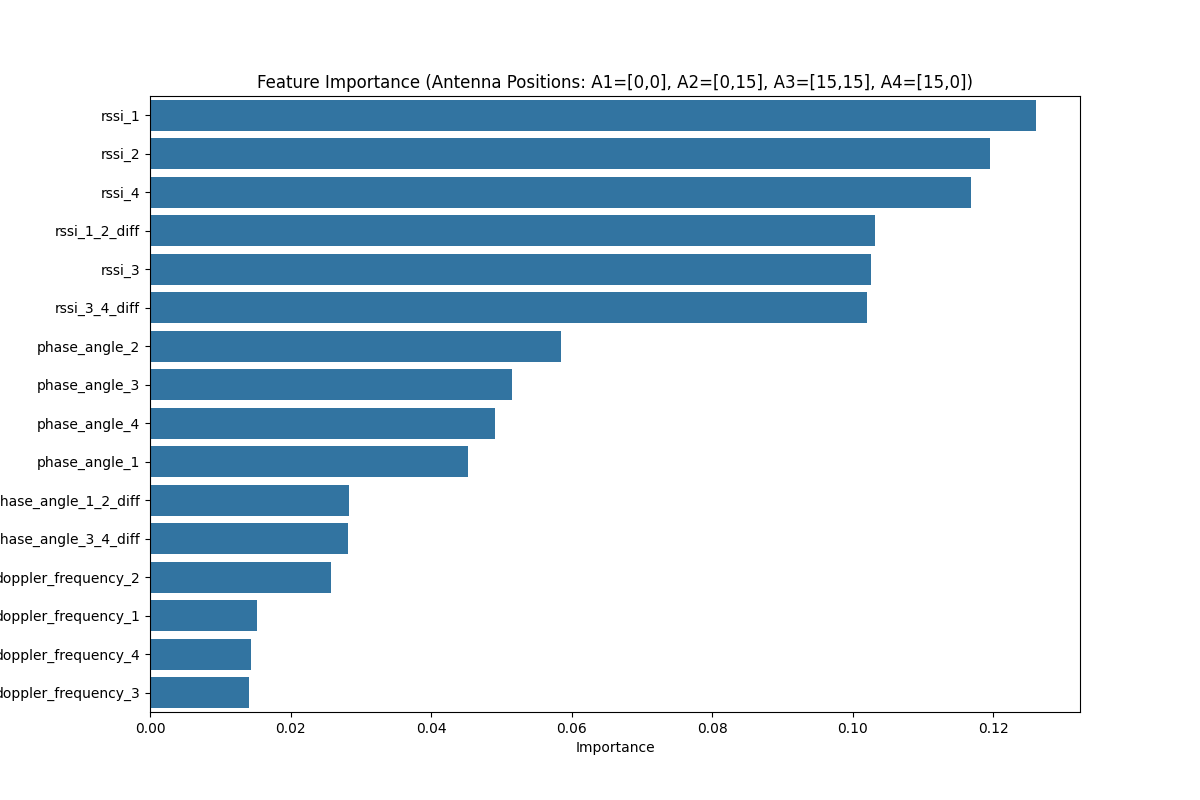
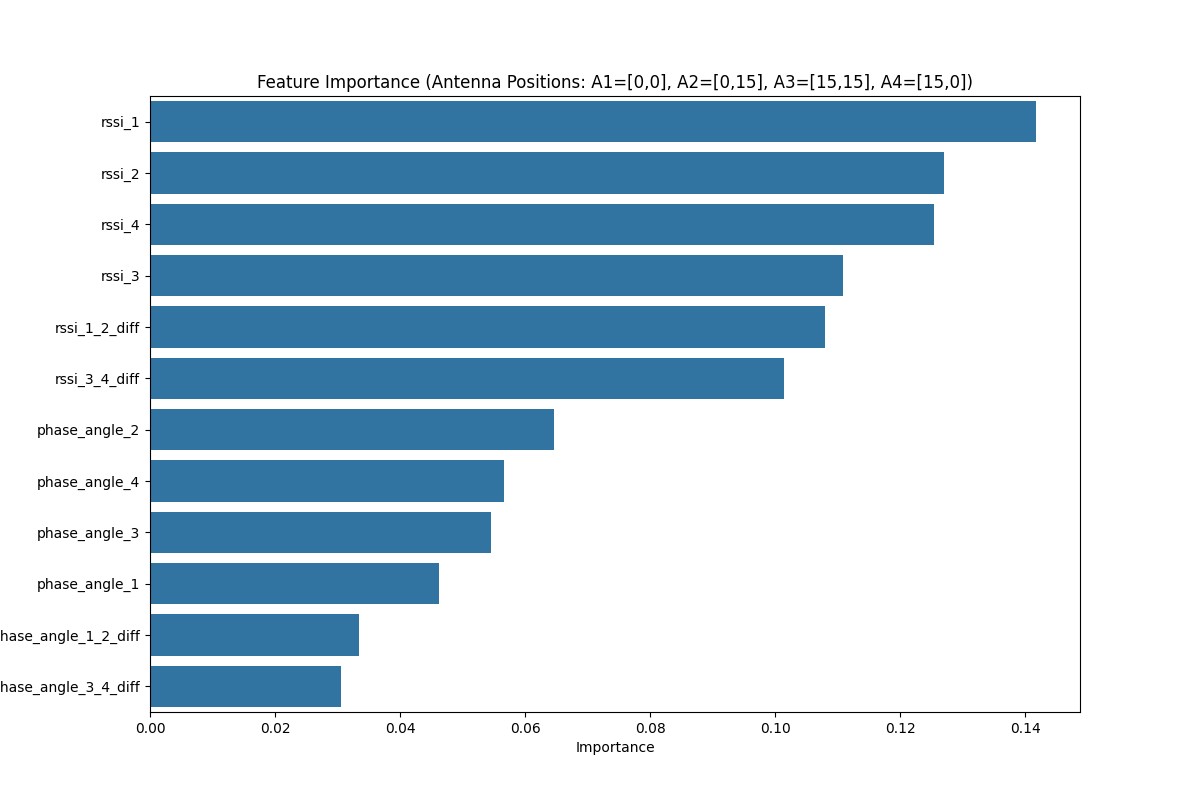
up

diff --git a/Models/movingModels/quadrantPredict.py b/Models/movingModels/quadrantPredict.py
@@ -1,3 +1,4 @@
+# 89% VERSION
 import numpy as np
 import pandas as pd
 from sklearn.model_selection import train_test_split, GridSearchCV
@@ -68,10 +69,10 @@ def load_and_preprocess_data(file_or_dir, data_dir, is_static=False):
             try:
                 df = pd.read_csv(file_path)
                 # Log and clean doppler_frequency
-                if 'doppler_frequency' in df.columns:
-                    print(f"Doppler frequency range in {fname}: {df['doppler_frequency'].min()} to {df['doppler_frequency'].max()}")
-                    print(f"Setting all doppler_frequency to 0 in static file {fname}.")
-                    df['doppler_frequency'] = 0  # Static tags should have zero Doppler
+                #if 'doppler_frequency' in df.columns:
+                #    print(f"Doppler frequency range in {fname}: {df['doppler_frequency'].min()} to {df['doppler_frequency'].max()}")
+                #    print(f"Setting all doppler_frequency to 0 in static file {fname}.")
+                #    df['doppler_frequency'] = 0  # Static tags should have zero Doppler
                 # Filter rssi outliers
                 if 'rssi' in df.columns:
                     print(f"RSSI range in {fname}: {df['rssi'].min()} to {df['rssi'].max()}")
@@ -90,14 +91,14 @@ def load_and_preprocess_data(file_or_dir, data_dir, is_static=False):
                 pivoted = df.pivot_table(
                     index='timestamp',
                     columns='antenna',
-                    values=['rssi', 'phase_angle', 'doppler_frequency'],
+                    values=['rssi', 'phase_angle'], #, 'doppler_frequency'],
                     aggfunc='mean'
                 )
                 pivoted.columns = [f'{col[0]}_{col[1]}' for col in pivoted.columns]
                 pivoted = pivoted.reset_index()
                 # Fill NaNs with mean for this file
                 for col in pivoted.columns:
-                    if col.startswith(('rssi_', 'phase_angle_', 'doppler_frequency_')):
+                    if col.startswith(('rssi_', 'phase_angle_')): #, 'doppler_frequency_')):
                         pivoted[col] = pivoted[col].fillna(pivoted[col].mean())
                 # Check for remaining NaNs
                 nan_counts = pivoted.isna().sum()
@@ -152,11 +153,11 @@ def load_and_preprocess_data(file_or_dir, data_dir, is_static=False):
             try:
                 df = pd.read_csv(file_path)
                 # Filter doppler_frequency outliers
-                if 'doppler_frequency' in df.columns:
-                    print(f"Doppler frequency range in {fname}: {df['doppler_frequency'].min()} to {df['doppler_frequency'].max()}")
-                    outliers_doppler = df['doppler_frequency'].abs() > 1000
-                    print(f"Outliers in doppler_frequency (>1000 Hz) in {fname}: {outliers_doppler.sum()}")
-                    df.loc[outliers_doppler, 'doppler_frequency'] = np.nan
+                #if 'doppler_frequency' in df.columns:
+                #    print(f"Doppler frequency range in {fname}: {df['doppler_frequency'].min()} to {df['doppler_frequency'].max()}")
+                #    outliers_doppler = df['doppler_frequency'].abs() > 1000
+                #    print(f"Outliers in doppler_frequency (>1000 Hz) in {fname}: {outliers_doppler.sum()}")
+                #    df.loc[outliers_doppler, 'doppler_frequency'] = np.nan
                 # Filter rssi outliers
                 if 'rssi' in df.columns:
                     print(f"RSSI range in {fname}: {df['rssi'].min()} to {df['rssi'].max()}")
@@ -169,14 +170,14 @@ def load_and_preprocess_data(file_or_dir, data_dir, is_static=False):
                 pivoted = df.pivot_table(
                     index='timestamp',
                     columns='antenna',
-                    values=['rssi', 'phase_angle', 'doppler_frequency'],
+                    values=['rssi', 'phase_angle'], #, 'doppler_frequency'],
                     aggfunc='mean'
                 )
                 pivoted.columns = [f'{col[0]}_{col[1]}' for col in pivoted.columns]
                 pivoted = pivoted.reset_index()
                 # Fill NaNs with mean for this file
                 for col in pivoted.columns:
-                    if col.startswith(('rssi_', 'phase_angle_', 'doppler_frequency_')):
+                    if col.startswith(('rssi_', 'phase_angle_')): #, 'doppler_frequency_')):
                         pivoted[col] = pivoted[col].fillna(pivoted[col].mean())
                 # Check for remaining NaNs
                 nan_counts = pivoted.isna().sum()
@@ -222,7 +223,7 @@ def generate_synthetic_static_data(n_points_per_quadrant=100):
             for ant in range(1, 5):
                 row[f'rssi_{ant}'] = np.random.uniform(-80, -40)
                 row[f'phase_angle_{ant}'] = np.random.uniform(0, 4096)
-                row[f'doppler_frequency_{ant}'] = 0  # Static data
+                #row[f'doppler_frequency_{ant}'] = 0  # Static data
             data.append(row)
     
     return pd.DataFrame(data)
@@ -268,7 +269,7 @@ def main():
     print(data['quadrant'].value_counts())
     
     # Features and target
-    features = [f'rssi_{i}' for i in range(1, 5)] + [f'phase_angle_{i}' for i in range(1, 5)] + [f'doppler_frequency_{i}' for i in range(1, 5)] + ['rssi_1_2_diff', 'rssi_3_4_diff', 'phase_angle_1_2_diff', 'phase_angle_3_4_diff']
+    features = [f'rssi_{i}' for i in range(1, 5)] + [f'phase_angle_{i}' for i in range(1, 5)] + ['rssi_1_2_diff', 'rssi_3_4_diff', 'phase_angle_1_2_diff', 'phase_angle_3_4_diff'] # + [f'doppler_frequency_{i}' for i in range(1, 5)]
     target = 'quadrant'
     
     # Verify no NaNs before splitting
@@ -380,7 +381,7 @@ def main():
     antenna_positions = {
         'rssi_1': 'A1=[0,0]', 'rssi_2': 'A2=[0,15]', 'rssi_3': 'A3=[15,15]', 'rssi_4': 'A4=[15,0]',
         'phase_angle_1': 'A1=[0,0]', 'phase_angle_2': 'A2=[0,15]', 'phase_angle_3': 'A3=[15,15]', 'phase_angle_4': 'A4=[15,0]',
-        'doppler_frequency_1': 'A1=[0,0]', 'doppler_frequency_2': 'A2=[0,15]', 'doppler_frequency_3': 'A3=[15,15]', 'doppler_frequency_4': 'A4=[15,0]',
+        #'doppler_frequency_1': 'A1=[0,0]', 'doppler_frequency_2': 'A2=[0,15]', 'doppler_frequency_3': 'A3=[15,15]', 'doppler_frequency_4': 'A4=[15,0]',
         'rssi_1_2_diff': 'A1-A2', 'rssi_3_4_diff': 'A3-A4', 'phase_angle_1_2_diff': 'A1-A2', 'phase_angle_3_4_diff': 'A3-A4'
     }
     feature_imp_df = pd.DataFrame({
